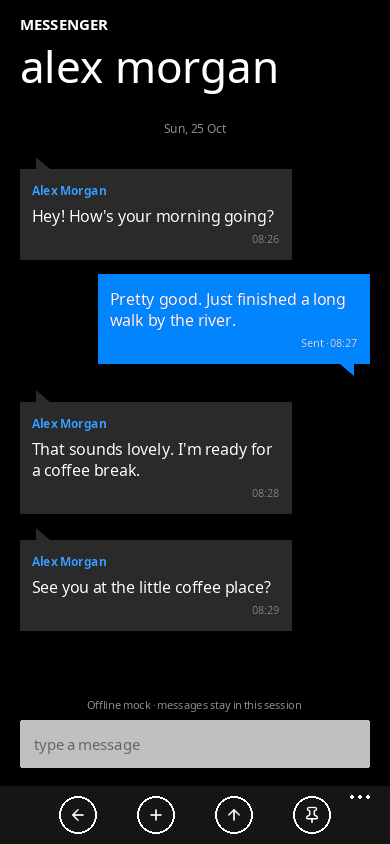
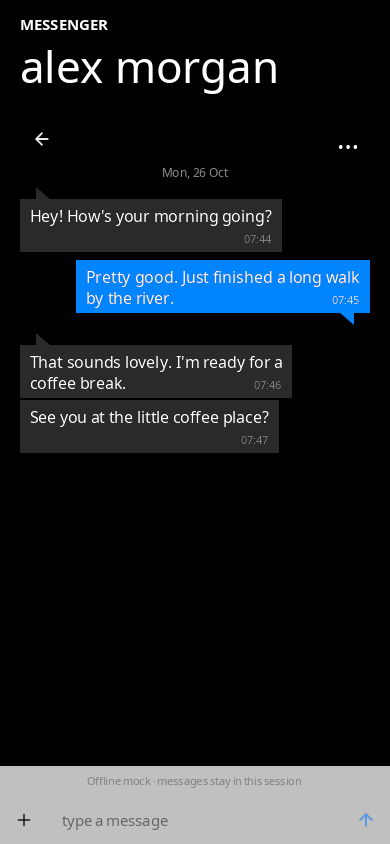
Make chat bubbles compact, Telegram-style
Bubbles size to their text instead of a fixed 272px, padding and row
spacing shrink, consecutive messages from one sender share one tail,
sender names show only in group chats, and the time sits on the last
text line when it fits. Set the thread notice before measuring the
scroll bottom so the footer no longer covers the newest message.

Claude-Session: https://claude.ai/code/session_015ua2FkaDugSb9CkKkrnf6A

diff --git a/apps/chat/README.md b/apps/chat/README.md
@@ -30,7 +30,9 @@ engine's Windows Phone controls (see `docs/UI_SYSTEM.md`):
   primary commands are filled with the accent, and links are plain accent
   text.
 - Avatars are square solid-colour tiles. Message bubbles are square, with
-  Windows Phone tails.
+  Windows Phone tails, and sized to their text. Consecutive messages from one
+  sender stack tightly and share one tail, sender names appear only in group
+  chats, and the time sits on the last line of text when it fits.
 
 `theme.lua` holds a black and a white palette with Messenger blue. The OS
 appearance chooses between them; set `CHAT_APPEARANCE=light` or `dark` to
